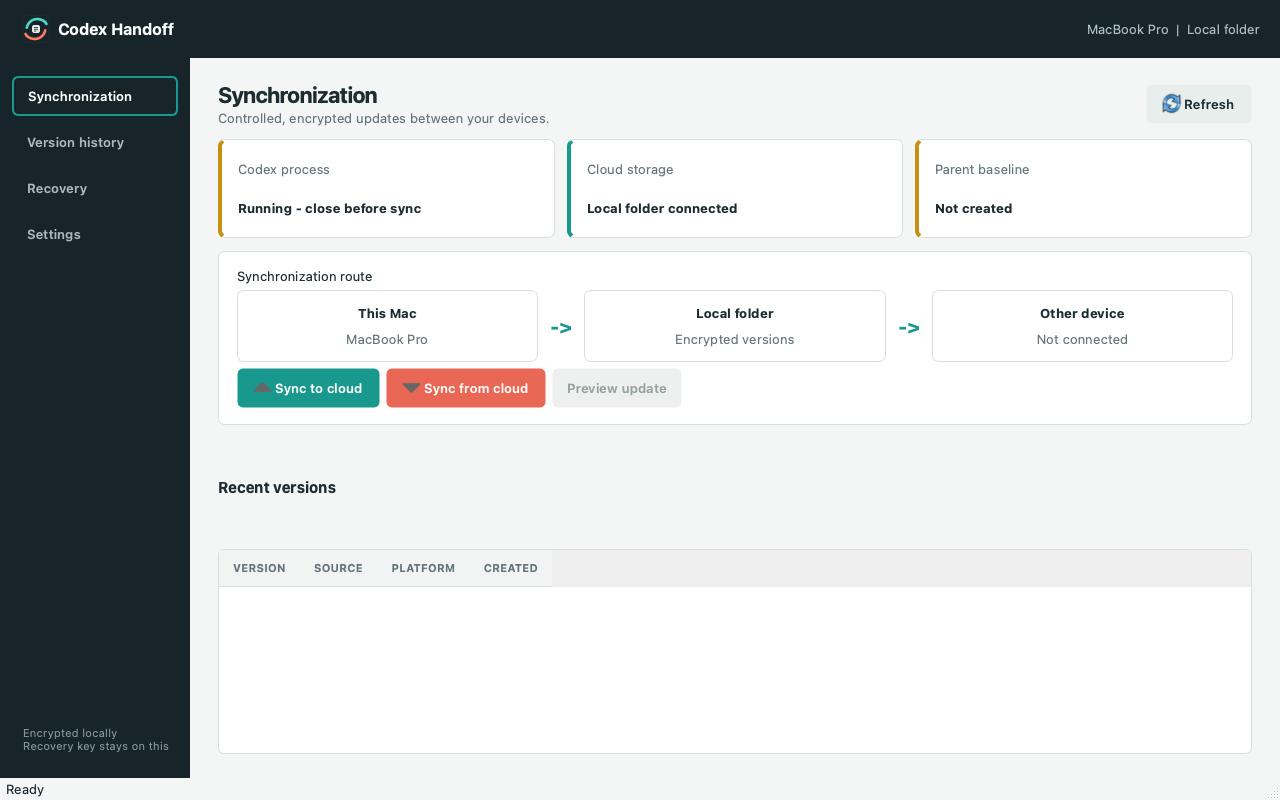
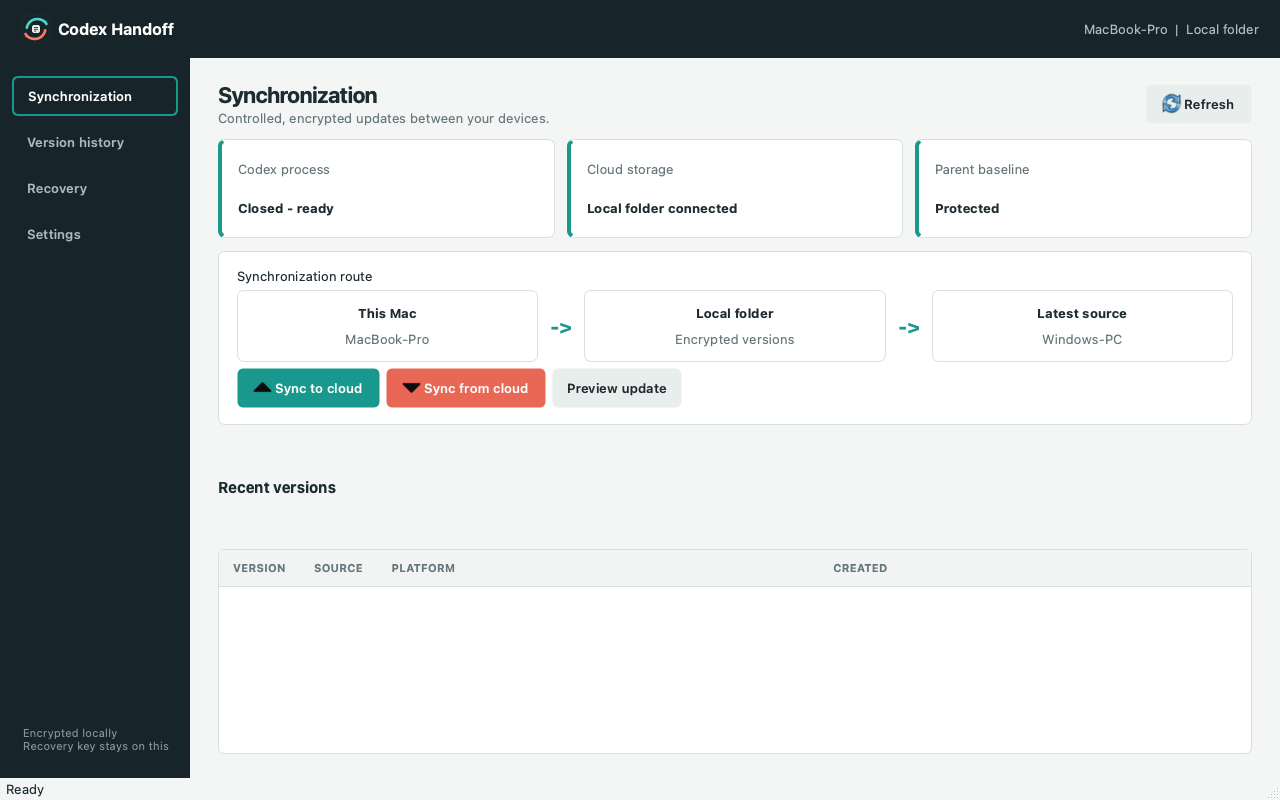
docs: refresh multi-device setup screenshots

diff --git a/src/codex_handoff/gui/setup.py b/src/codex_handoff/gui/setup.py
@@ -163,6 +163,47 @@ class RecoveryPage(QWidget):
         self.recovery_key.setText(selected)
 
 
+class PairingPage(QWidget):
+    def __init__(self, existing: AppConfig | None) -> None:
+        super().__init__()
+        self.mode = QComboBox()
+        self.mode.addItem("Create a new two-device pair", "create_pair")
+        self.mode.addItem("Join an existing pair", "join_pair")
+        if existing:
+            index = self.mode.findData(existing.pair_mode)
+            if index >= 0:
+                self.mode.setCurrentIndex(index)
+        self.explanation = QLabel()
+        self.explanation.setWordWrap(True)
+        self.explanation.setObjectName("reviewSummary")
+        self.mode.currentIndexChanged.connect(self._update_explanation)
+        body = _page_body(
+            "PAIRING",
+            "Connect two computers",
+            "Choose whether this computer starts a pair or joins one that already has a protected baseline.",
+        )
+        form = QFormLayout()
+        form.addRow("Pairing mode", self.mode)
+        body.addLayout(form)
+        body.addSpacing(12)
+        body.addWidget(self.explanation)
+        body.addStretch()
+        self.setLayout(body)
+        self._update_explanation()
+
+    def _update_explanation(self) -> None:
+        if self.mode.currentData() == "join_pair":
+            self.explanation.setText(
+                "Use Join when replacing a Windows laptop, adding a Windows desktop, or moving to a new Mac. "
+                "After setup, the dashboard will initialize this computer from the latest version or the protected baseline."
+            )
+        else:
+            self.explanation.setText(
+                "Create a new pair on the first computer. The second computer uses Join with the same storage and recovery key. "
+                "Supported directions: macOS -> Windows, Windows -> macOS, Windows -> Windows, and macOS -> macOS."
+            )
+
+
 class ReviewPage(QWidget):
     def __init__(self, existing: AppConfig | None) -> None:
         super().__init__()
@@ -196,10 +237,11 @@ class SetupWizard(QDialog):
         self.resize(900, 600)
         self.device_page = DevicePage(self.existing)
         self.storage_page = StoragePage(self.existing)
+        self.pairing_page = PairingPage(self.existing)
         self.recovery_page = RecoveryPage(self.existing)
         self.review_page = ReviewPage(self.existing)
         self.pages = QStackedWidget()
-        for page in (self.device_page, self.storage_page, self.recovery_page, self.review_page):
+        for page in (self.device_page, self.storage_page, self.pairing_page, self.recovery_page, self.review_page):
             self.pages.addWidget(page)
         self.step_labels: list[QLabel] = []
         rail = self._build_rail()
@@ -250,7 +292,7 @@ class SetupWizard(QDialog):
         brand_row.addStretch()
         layout.addLayout(brand_row)
         layout.addSpacing(36)
-        for number, title in enumerate(("This device", "Storage", "Recovery key", "Review"), start=1):
+        for number, title in enumerate(("This device", "Storage", "Pairing", "Recovery key", "Review"), start=1):
             label = QLabel(f"  {number}    {title}")
             label.setFixedHeight(42)
             label.setProperty("step", "pending")
@@ -269,6 +311,7 @@ class SetupWizard(QDialog):
         self.provider = self.storage_page.provider
         self.storage = self.storage_page.storage
         self.secrets = self.storage_page.secrets
+        self.pair_mode = self.pairing_page.mode
         self.recovery_key = self.recovery_page.recovery_key
         self.storage_row = self.storage_page.storage_row
         self.secrets_row = self.storage_page.secrets_row
@@ -280,8 +323,8 @@ class SetupWizard(QDialog):
             label.style().unpolish(label)
             label.style().polish(label)
         self.back_button.setVisible(index > 0)
-        self.continue_button.setText("Finish setup" if index == 3 else "Continue")
-        if index == 3:
+        self.continue_button.setText("Finish setup" if index == 4 else "Continue")
+        if index == 4:
             self._update_review()
 
     def _back(self) -> None:
@@ -292,7 +335,7 @@ class SetupWizard(QDialog):
         if error:
             QMessageBox.warning(self, "Check this step", error)
             return
-        if self.current_step < 3:
+        if self.current_step < 4:
             self._show_step(self.current_step + 1)
         else:
             self._finish()
@@ -308,7 +351,7 @@ class SetupWizard(QDialog):
                 return "Select the Google Desktop OAuth JSON file."
             if self.provider.currentData() == "local" and not self.storage.text().strip():
                 return "Select a local provider folder."
-        elif self.current_step == 2 and not Path(self.recovery_key.text()).expanduser().is_file():
+        elif self.current_step == 3 and not Path(self.recovery_key.text()).expanduser().is_file():
             return "Create or select the recovery key."
         return None
 
@@ -317,6 +360,7 @@ class SetupWizard(QDialog):
             device_id=self.device.text().strip(),
             source_dir=Path(self.source.text()).expanduser(),
             workspace_dir=Path(self.workspace.text()).expanduser(),
+            pair_mode=str(self.pair_mode.currentData()),
             provider=str(self.provider.currentData()),
             local_storage_dir=Path(self.storage.text()).expanduser() if self.provider.currentData() == "local" else None,
             google_client_secrets=Path(self.secrets.text()).expanduser() if self.provider.currentData() == "google_drive" else None,
@@ -332,6 +376,7 @@ class SetupWizard(QDialog):
         provider = "Google Drive" if self.provider.currentData() == "google_drive" else "Local folder"
         self.review_page.summary.setText(
             f"Device: {self.device.text()}\n"
+            f"Pairing: {'Join existing pair' if self.pair_mode.currentData() == 'join_pair' else 'Create new pair'}\n"
             f"Codex data: {self.source.text()}\n"
             f"Storage: {provider}\n"
             f"Recovery key: {self.recovery_key.text()}"

diff --git a/src/codex_handoff/config.py b/src/codex_handoff/config.py
@@ -15,6 +15,7 @@ class AppConfig:
     device_id: str
     source_dir: Path
     workspace_dir: Path
+    pair_mode: str = "create_pair"
     provider: str = "local"
     local_storage_dir: Path | None = None
     google_client_secrets: Path | None = None
@@ -71,6 +72,7 @@ def load_config(path: Path | None = None) -> AppConfig:
         device_id=str(raw["device_id"]),
         source_dir=Path(raw["source_dir"]).expanduser(),
         workspace_dir=Path(raw["workspace_dir"]).expanduser(),
+        pair_mode=str(raw.get("pair_mode", "create_pair")),
         provider=str(raw.get("provider", "local")),
         local_storage_dir=Path(raw["local_storage_dir"]).expanduser() if raw.get("local_storage_dir") else None,
         google_client_secrets=Path(raw["google_client_secrets"]).expanduser() if raw.get("google_client_secrets") else None,
@@ -86,6 +88,8 @@ def load_config(path: Path | None = None) -> AppConfig:
 def validate_config(config: AppConfig) -> None:
     if not config.device_id.strip():
         raise ConfigurationError("Device ID is required")
+    if config.pair_mode not in {"create_pair", "join_pair"}:
+        raise ConfigurationError("Pairing mode must be create_pair or join_pair")
     if not config.source_dir.is_dir():
         raise ConfigurationError(f"Codex state directory not found: {config.source_dir}")
     if config.provider == "local" and config.local_storage_dir is None:

diff --git a/tests/test_setup_wizard.py b/tests/test_setup_wizard.py
@@ -12,6 +12,7 @@ def test_setup_wizard_starts_with_platform_defaults(tmp_path: Path) -> None:
     assert wizard.current_step == 0
     assert wizard.device_page.source.text().endswith(".codex")
     assert wizard.storage_page.provider.currentData() == "google_drive"
+    assert wizard.pairing_page.mode.currentData() == "create_pair"
     assert wizard.review_page.autostart.isChecked()
     assert wizard.review_page.desktop_shortcut.isChecked()
     assert wizard.minimumWidth() >= 840
@@ -27,5 +28,17 @@ def test_local_provider_switches_visible_fields(tmp_path: Path) -> None:
 
     assert wizard.storage_page.local_folder_row.isEnabled()
     assert not wizard.storage_page.oauth_row.isEnabled()
+    wizard.close()
+    assert app is not None
+
+
+def test_setup_wizard_can_join_existing_pair(tmp_path: Path) -> None:
+    app = QApplication.instance() or QApplication([])
+    wizard = SetupWizard(tmp_path / "config.json")
+
+    wizard.pairing_page.mode.setCurrentIndex(1)
+
+    assert wizard.pairing_page.mode.currentData() == "join_pair"
+    assert "replacing" in wizard.pairing_page.explanation.text()
     wizard.close()
     assert app is not None

diff --git a/src/codex_handoff/gui/main_window.py b/src/codex_handoff/gui/main_window.py
@@ -538,7 +538,7 @@ class MainWindow(QMainWindow):
         )
         has_baseline = bool(baseline_id)
         if self.pending_operation is None:
-            self.baseline_button.setEnabled(not has_baseline)
+            self.baseline_button.setEnabled(not has_baseline and self.config.pair_mode == "create_pair")
             self.push_button.setEnabled(can_publish)
             self.restore_baseline_button.setEnabled(has_baseline)
             if requires_initial_sync:

diff --git a/README.md b/README.md
@@ -6,6 +6,19 @@ Codex Handoff is a free, open-source desktop application. It synchronizes select
 
 Codex Handoff is an independent community project and is not affiliated with or endorsed by OpenAI.
 
+## Supported Pairings
+
+One configured synchronization space connects exactly two active computers. The computers may use any supported combination:
+
+| Direction | Example |
+| --- | --- |
+| macOS → Windows | MacBook to a Windows laptop or desktop |
+| Windows → macOS | Windows laptop or desktop back to a Mac |
+| Windows → Windows | Windows laptop to a replacement Windows PC |
+| macOS → macOS | One MacBook to a new MacBook |
+
+The arrows describe the current publish direction; the same pair can synchronize back in the opposite direction. This is multi-platform synchronization for a two-device pair, not a three-way merge service. Before publishing, the active computer must apply the latest version from the other computer.
+
 ## Screenshots
 
 ### Synchronization Dashboard
@@ -91,6 +104,14 @@ Install Codex Handoff on the second computer and configure it with:
 The second device discovers the protected baseline and published versions in the shared application folder. It first downloads and applies the latest version, or restores the protected baseline when no version has been published yet. Until that first initialization succeeds, publishing is disabled so a new computer cannot overwrite the shared state with its empty or unrelated local files.
 
 The encrypted baseline is cached in the application data directory on both devices. It remains available for recovery on either computer even if the cloud connection is temporarily unavailable.
+
+### Pairing flow inside the application
+
+1. On the first computer, choose the Codex directory, storage provider, and recovery key, then create the protected baseline.
+2. On the second or replacement computer, use the same storage, Google account, OAuth JSON, and recovery key. Give it a different device name.
+3. The dashboard detects whether this is a new pair member. If a current version exists, it offers a preview before applying it. If only the baseline exists, it offers **Initialize from baseline**.
+4. The **Sync to cloud** action remains disabled until initialization succeeds. This prevents an empty or unrelated new profile from replacing the pair's state.
+5. After initialization, work on either computer, close Codex, publish, and apply the update on the other computer. Each device keeps its own encrypted local baseline copy.
 
 ### Replace a computer
 
